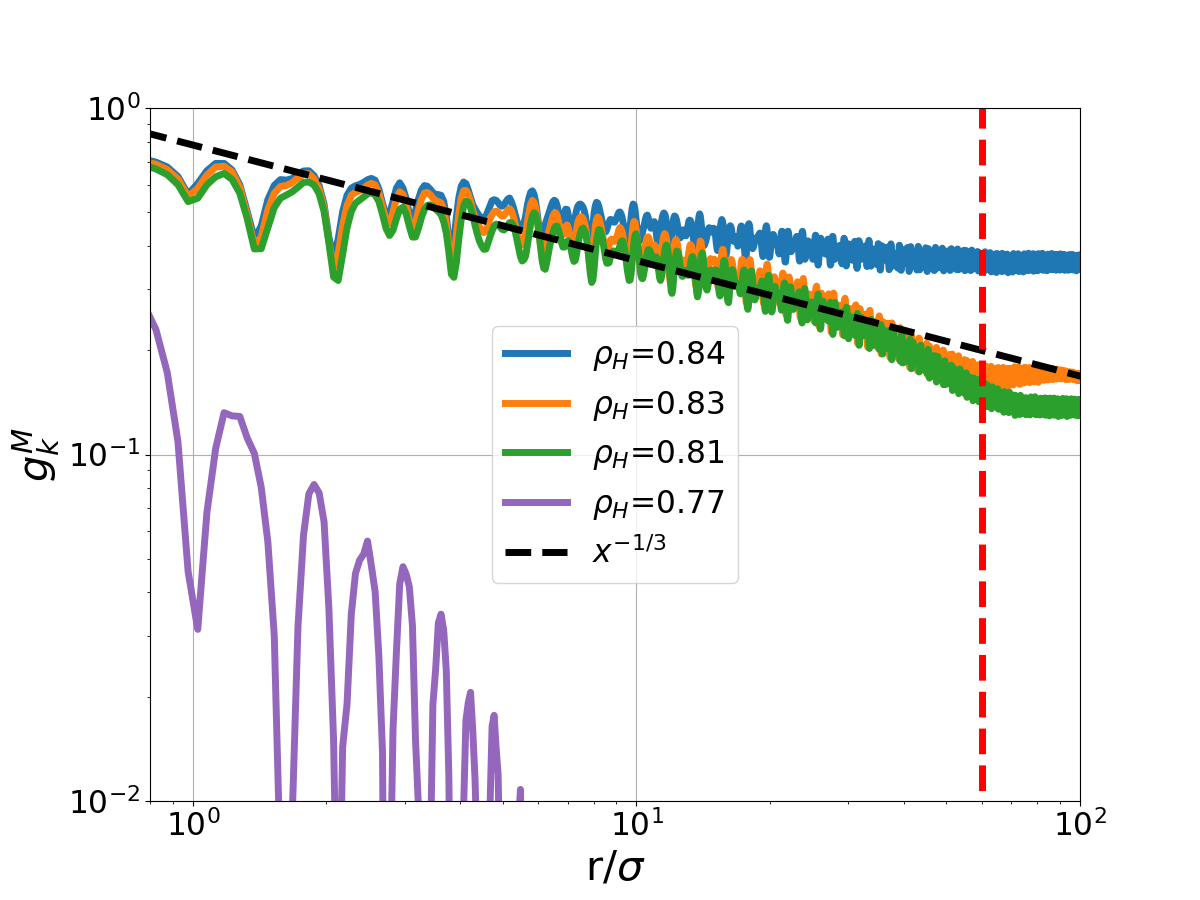
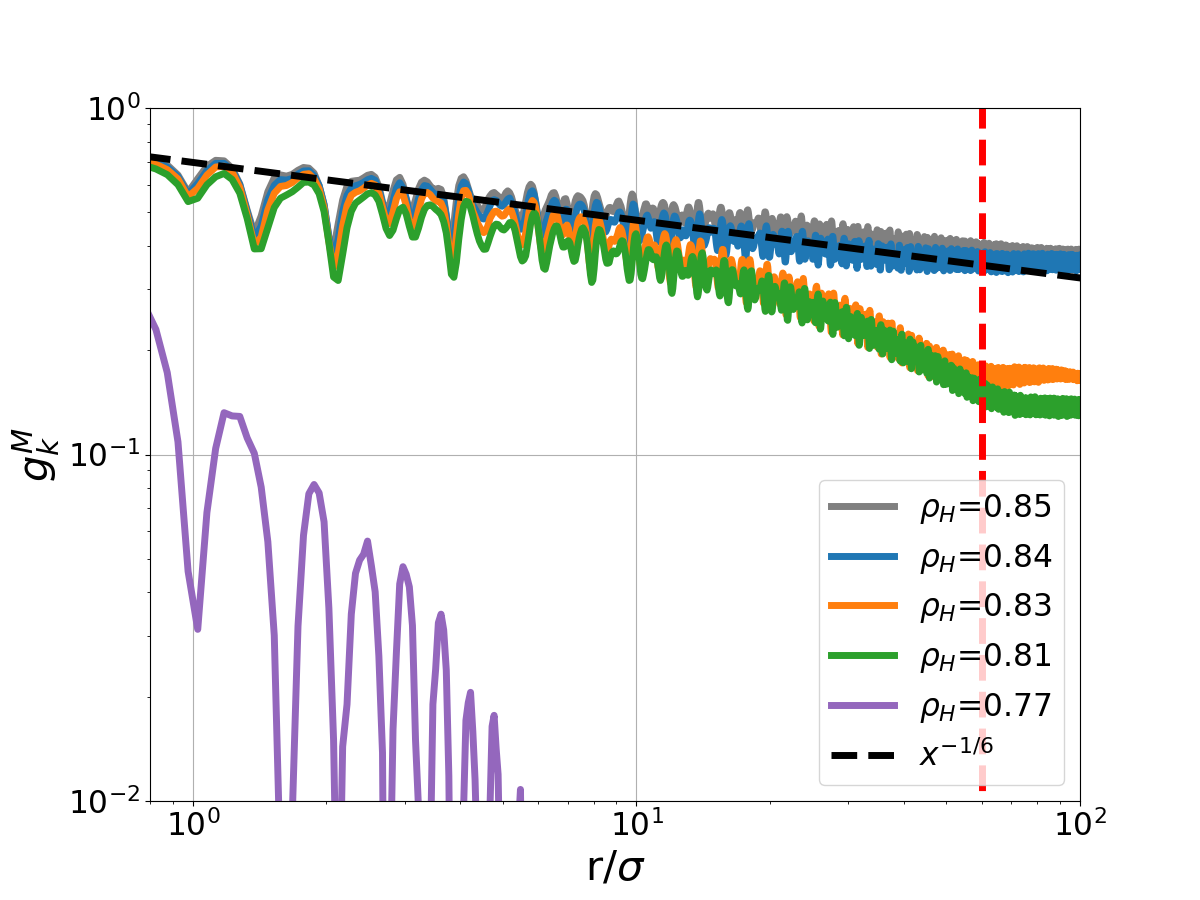
Did added rho=0.85 at the end. Maybe this will be a final final commit :-)

diff --git a/create_all_graphs.py b/create_all_graphs.py
@@ -19,7 +19,7 @@ params = {'legend.fontsize': size * 0.75, 'figure.figsize': (10, 10), 'axes.labe
           'xtick.labelsize': size * 0.75, 'ytick.labelsize': size * 0.75}
 plt.rcParams.update(params)
 colors_rho = {0.84: 'C0', 0.83: 'C1', 0.81: 'C2', 0.8: 'C9', 0.78: 'C3', 0.77: 'C4', 0.785: 'C5', 0.775: 'C6',
-              0.75: 'C7', 0.79: 'C8', 0.71: 'C9', 0.85: 'm'}
+              0.75: 'C7', 0.79: 'C8', 0.71: 'C9', 0.85: 'gray'}
 direction_colors = {(1, 1): 'b', (1, -1): 'm', (-1, 1): 'g', (-1, -1): 'r', (0, 0): 'gray'}
 
 
@@ -467,8 +467,8 @@ def plot_magnetic_corr(rhos):
     corr_ylim = [1e-2, 1]
     corr_xlim = [0.8, 1e2]
 
-    plot_corr(rhos, 'Bragg_Sm', poly_slope=1.0 / 3, single_slope_label=True)
-    plt.legend([prepare_lbl('rhoH=' + str(r)) for r in rhos] + ['$x^{-1/3}$'])
+    plot_corr(rhos, 'Bragg_Sm', poly_slope=1.0 / 6, single_slope_label=True)
+    plt.legend([prepare_lbl('rhoH=' + str(r)) for r in rhos] + ['$x^{-1/6}$'])
     plt.ylim(corr_ylim)
     plt.xlim(corr_xlim)
     plt.xlabel('r/$\sigma$')
@@ -1063,7 +1063,7 @@ if __name__ == "__main__":
     realization = 94363239
 
     """ Fig. 2 - correlations """
-    plot_pos_and_orientation([0.84, 0.83, rhoH_tetratic], [rhoH_tetratic, 0.78, 0.77])
+    plot_pos_and_orientation([0.85, 0.84, 0.83, rhoH_tetratic], [rhoH_tetratic, 0.78, 0.77])
     # 0.85? Shows such a slow algebraic decay it looks like long range order!
 
     """ Fig. 3 - Plot global burger field before and after cleaning """
@@ -1088,7 +1088,7 @@ if __name__ == "__main__":
     plot_z_histogram([0.71, 0.78, rhoH_tetratic, 0.85])
     for bragg_type in ['Bragg_S', 'Bragg_Sm']:
         plot_color_bargg_peaks([0.75, 0.78, rhoH_tetratic, 0.85], bragg_type=bragg_type)
-    plot_magnetic_corr([0.84, 0.83, rhoH_tetratic, 0.77])
+    plot_magnetic_corr([0.85, 0.84, 0.83, rhoH_tetratic, 0.77])
     plot_local_psi_hist(np.unique([rhoH_tetratic, 0.8, 0.79, 0.785, 0.78, 0.775, 0.77])[-1::-1])
 
     """
